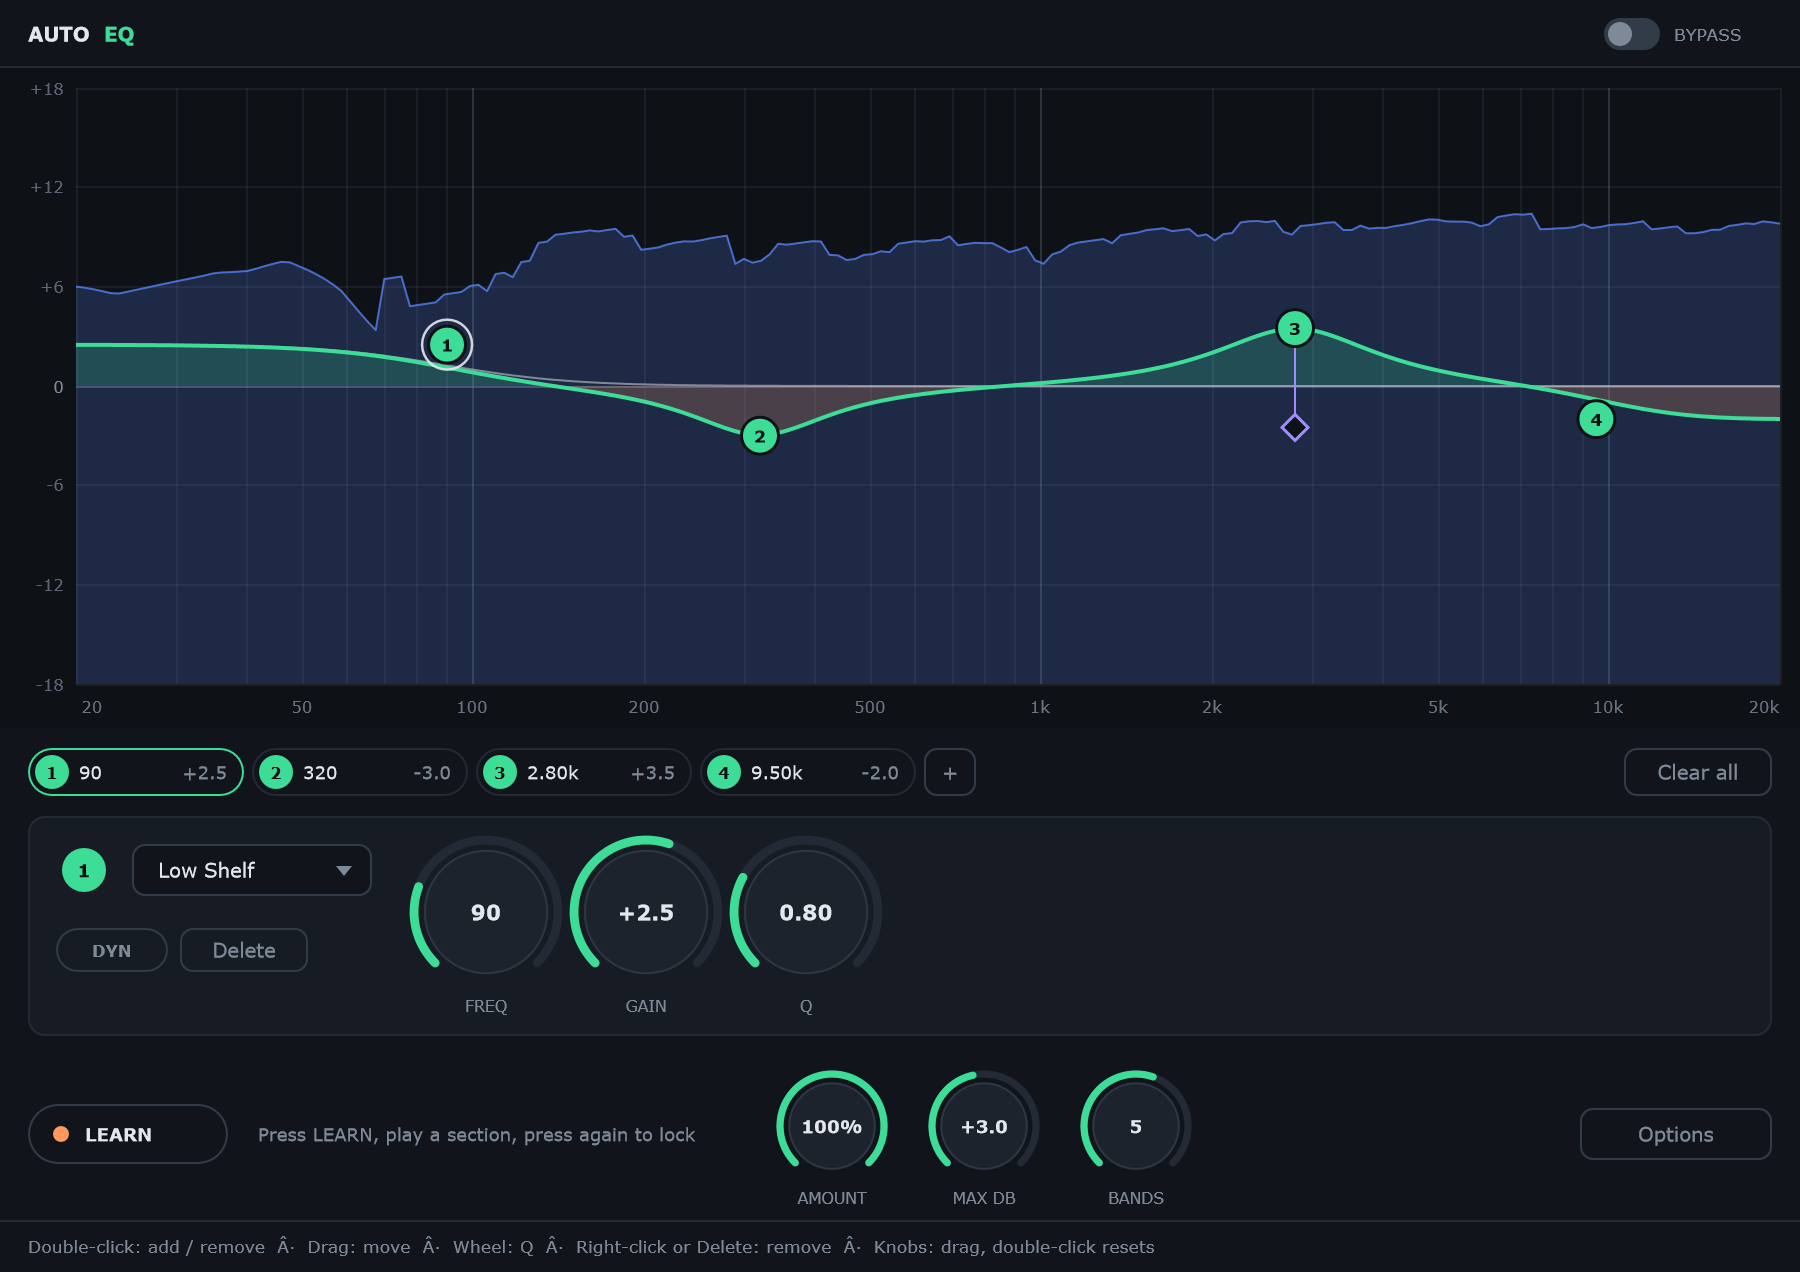
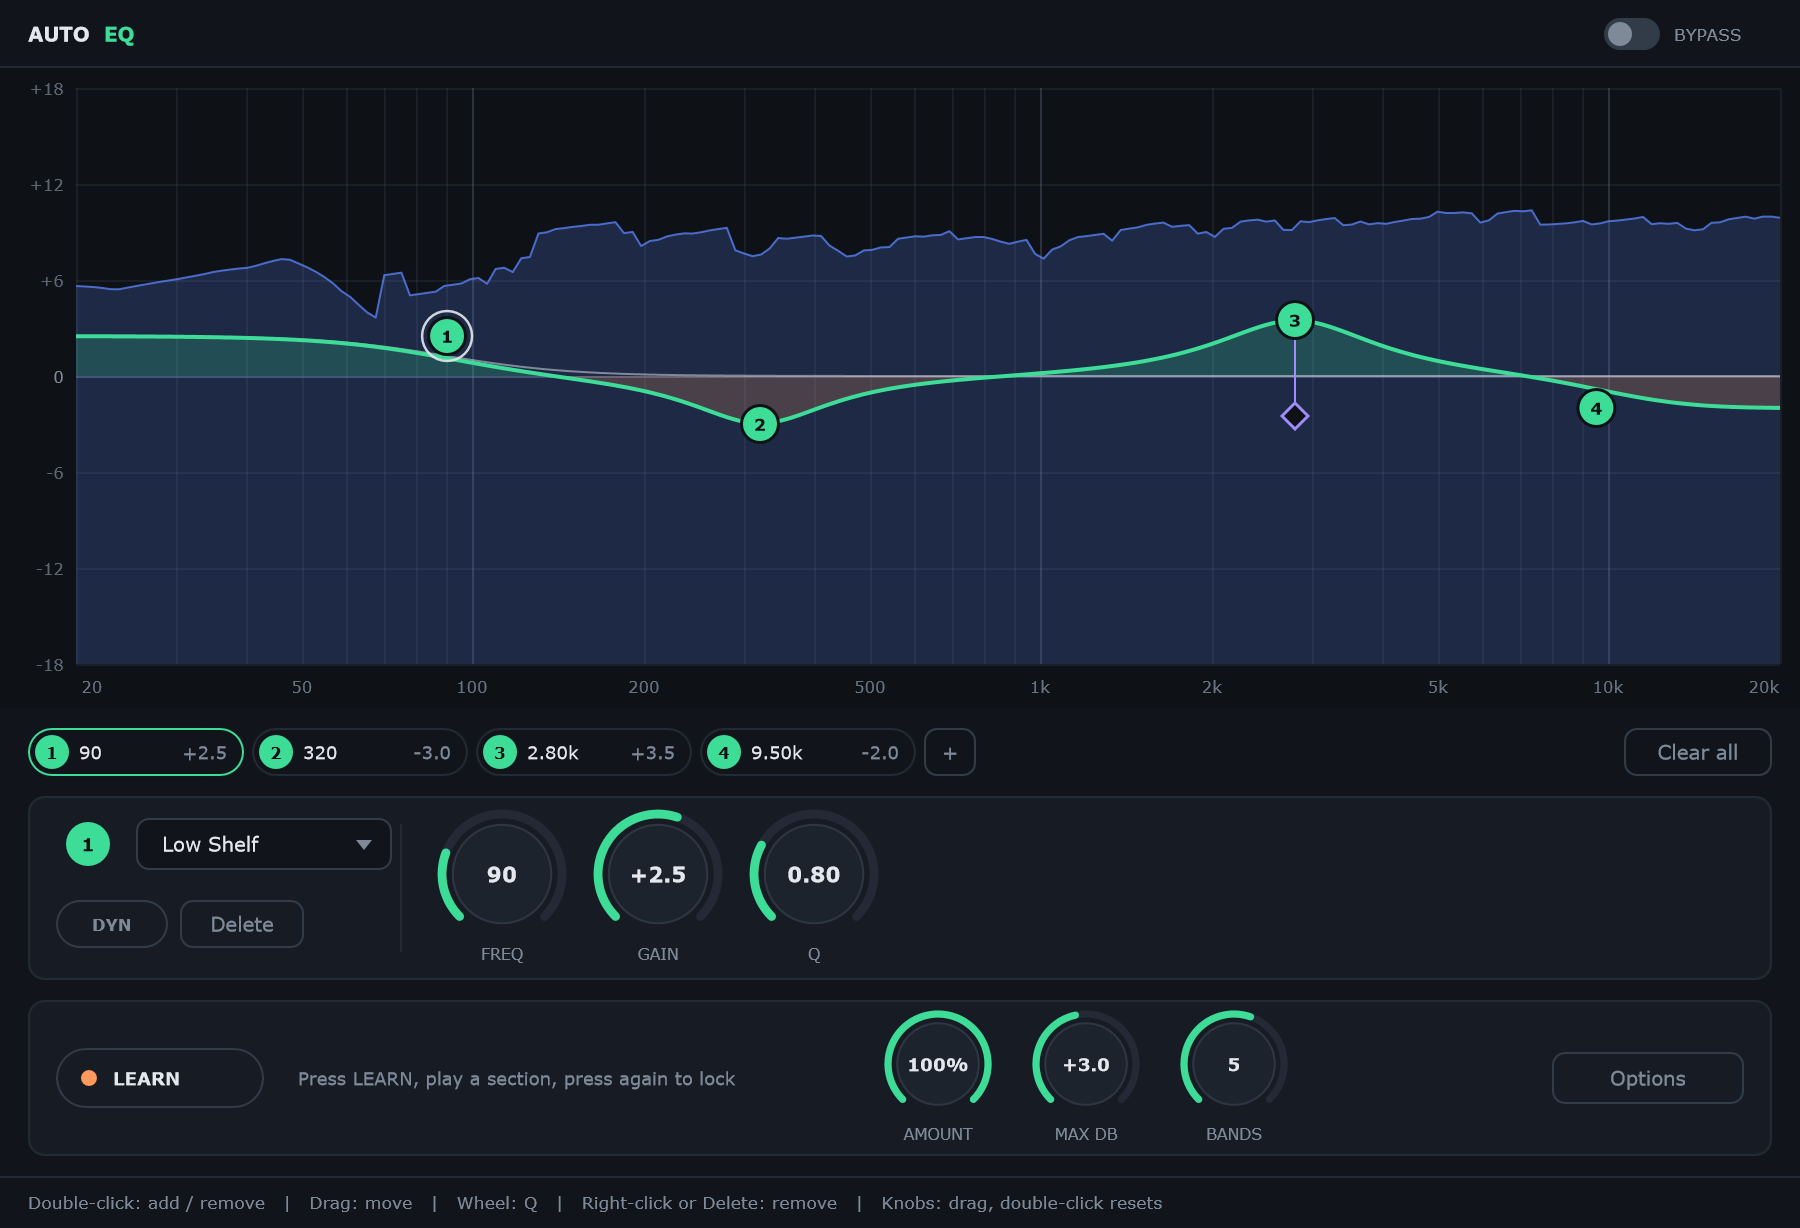
fix(vst): 옵션 영역 정렬

diff --git a/vst/Source/PluginEditor.cpp b/vst/Source/PluginEditor.cpp
@@ -777,13 +777,13 @@ void AutoEQEditor::resized() {
 
     if (drawer_) {
         const int dy = ay + kAuto;
-        modeL_.setBounds(14 + 14, dy + 8, 100, 16);
-        autoMode_.setBounds(14 + 14, dy + 26, 190, 26);
-        instL_.setBounds(14 + 14, dy + 56, 100, 16);
-        instrument_.setBounds(14 + 14, dy + 72 - 4, 190, 26);
-        styleL_.setBounds(14 + 214, dy + 56, 100, 16);
-        style_.setBounds(14 + 214, dy + 72 - 4, 150, 26);
-        int ox = 14 + 420;
+        modeL_.setBounds(14 + 14, dy + 22, 170, 16);
+        autoMode_.setBounds(14 + 14, dy + 42, 170, 26);
+        instL_.setBounds(14 + 194, dy + 22, 170, 16);
+        instrument_.setBounds(14 + 194, dy + 42, 170, 26);
+        styleL_.setBounds(14 + 374, dy + 22, 120, 16);
+        style_.setBounds(14 + 374, dy + 42, 120, 26);
+        int ox = 14 + 520;
         for (auto* k : {&match_, &liveSec_, &smooth_, &output_}) { k->setBounds(ox, dy + 10, 70, 80); ox += 74; }
     }
 }
